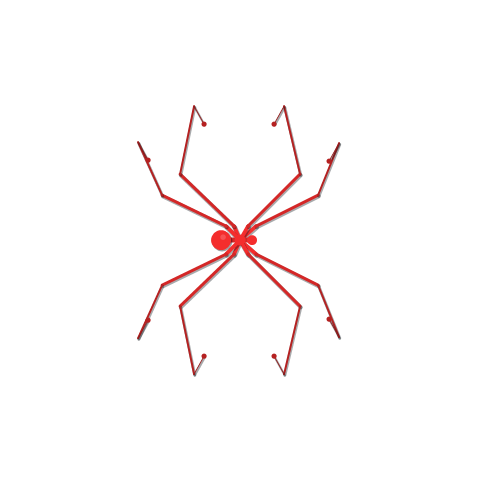
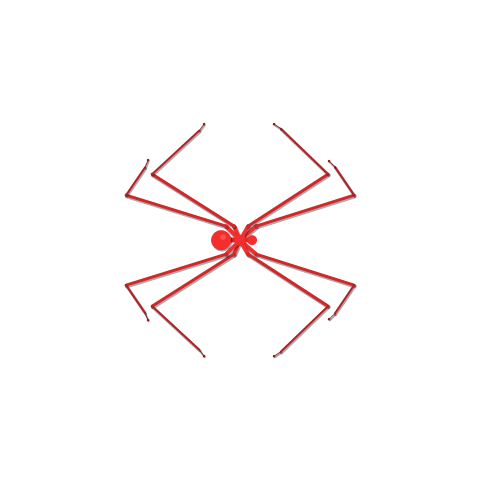
fix(legs): taper distal feet without hooked tips

Changed region(s): [[0.25, 0.5312, 0.75, 0.7812], [0.25, 0.2188, 0.75, 0.5]]

diff --git a/src/main.cpp b/src/main.cpp
@@ -308,10 +308,17 @@ public:
         int row=i%4,side=i<4?-1:1;
         float forward=row<2?1.f:-1.f;
         V h=hip(i), f=home(i);
+        V knee=pos+bodyOffset+local((row==0?114.f:row==1?88.f:row==2?-88.f:-114.f)*scale,
+                                    (row==0||row==3?45.f:66.f)*side*scale);
+        V distal=unit(f-knee);float turn=side*.16f;
+        V toeDirection{distal.x*std::cos(turn)-distal.y*std::sin(turn),
+                       distal.x*std::sin(turn)+distal.y*std::cos(turn)};
+        // A short distal foot continues the shin with a slight mirrored bend.
+        // Its joint stays before the contact, rather than overshooting the toe
+        // and folding back into the conspicuous hook of the old silhouette.
+        V ankle=f-toeDirection*(8*scale);
         return {h,h+bodyLocal(forward*3*scale,side*9*scale),
-                pos+bodyOffset+local((row==0?78.f:row==1?60.f:row==2?-60.f:-78.f)*scale,
-                                     (row==0||row==3?45.f:66.f)*side*scale),
-                f+local(forward*10*scale,side*18*scale),f};
+                knee,ankle,f};
     }
     V home(int i) const {
         int side=i<4?-1:1, row=i%4;
@@ -546,7 +553,7 @@ public:
         auto screen=[&](V p) { return p-pos+origin; };
         V center=origin+bodyOffset;
         for(int i=0;i<8;++i) {
-            static const float widths[]={3.8f,3.f,2.f,1.15f};
+            static const float widths[]={3.8f,3.f,2.f,.95f};
             for(int j=0;j<4;++j) {
                 V a=screen(legs[i].joints[j]),b=screen(legs[i].joints[j+1]);
                 // A fine shadow keeps the colored silhouette visible on light windows.
@@ -555,7 +562,7 @@ public:
                 if(j>0) dot(g,a,widths[j]*.58f,pigment(j));
             }
             V toe=screen(legs[i].joints[4]);
-            dot(g,toe,2.6f,pigment(2));
+            dot(g,toe,1.35f,pigment(3));
             if(i==hovered || i==grabbed) {
                 Pen ring(Color(i==grabbed?230:150,235,245,255),1.2f);
                 float r=(i==grabbed?8.f:10.f)*scale;

diff --git a/src/runtime_log.h b/src/runtime_log.h
@@ -66,7 +66,7 @@ public:
         wchar_t folder[MAX_PATH]{};
         if(SUCCEEDED(SHGetFolderPathW(nullptr,CSIDL_LOCAL_APPDATA,nullptr,0,folder))
            &&open(std::wstring(folder)+L"\\NeonSpider")) {
-            write("event=version value=0.2.2");
+            write("event=version value=0.2.3");
             SetUnhandledExceptionFilter(onException);
             std::set_terminate([]()noexcept{write("event=cpp_terminate");std::abort();});
         }

diff --git a/README.md b/README.md
@@ -37,7 +37,9 @@ in the tray menu. Use disposable files when trying this feature.
 ### What it does
 
 - **Walks with its feet.** Four segments per leg, distance and angle constraints,
-  planted contacts, alternating steps, and an inertial body.
+  planted contacts, alternating steps, and an inertial body. This is a stylized
+  four-segment model, not a one-to-one anatomical model. The short distal foot
+  continues the lower leg with a subtle bend instead of folding back into a hook.
 - **Can be picked up.** Hold any foot tip with the left mouse button. The other
   legs flail while the body hangs from your pointer. Release gently or fling it;
   it lands and recovers its footing. Other desktop clicks pass through.
@@ -228,6 +230,7 @@ Released under the [MIT License](LICENSE).
 ### 功能
 
 - **用脚牵动身体行走**：四段关节、距离和角度约束、固定落脚点、交替换脚，身体有惯性。
+  四段是简化的视觉模型，并非真实解剖的一一对应；末端足节缩短、顺势轻弯，不再反折成钩子。
 - **抓脚、挣扎和甩动**：左键按住任意脚尖，身体悬挂，其他七条腿自由挣扎。轻放或甩出后，
   它会落地并恢复支撑。其他桌面点击正常穿透。
 - **自主生活节奏**：探索、停下观察、好奇靠近、躲避快速逼近的鼠标、去角落休息、整理腿脚。
